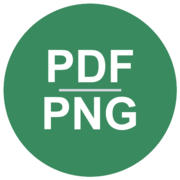
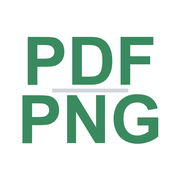
v2: 저장 라우팅(폴더 미지정=다운로드 폴백·강제 픽커 제거)+이미지→PDF 변환+돋보기 확대+§4.6 완료 인터랙션(체크팝·자동전환)+§4.9 shake+문구 정리+로고 v2(흰 원·초록 대형 글자) — 헤드리스 20/20 PASS

diff --git a/index.html b/index.html
@@ -79,12 +79,24 @@ svg.li{fill:none;stroke:currentColor;stroke-width:2;stroke-linecap:round;stroke-
 .btn.fill:disabled{background:var(--p-disabled);cursor:default;transform:none}
 .btn.weak{background:var(--green-bg);color:var(--green-dark)}
 
-/* ── 변환 완료 ── */
-.donebox{flex:1;display:flex;flex-direction:column;align-items:center;justify-content:center;gap:14px;padding:40px 0}
-.donebox .dc{width:74px;height:74px;border-radius:50%;background:var(--green100);color:var(--green600);display:flex;align-items:center;justify-content:center}
-.donebox .dc svg{width:36px;height:36px;stroke-width:2.6}
-.donebox .dt{font-size:22px;font-weight:800;letter-spacing:-.5px}
-.donebox .ds{font-size:var(--fs-body);color:var(--g500);font-weight:500;text-align:center;line-height:1.6}
+/* ── 완료 오버레이 (§4.6: 체크 팝인 → 제목 → 자동 전환·슬라이드) ── */
+.doneo{position:fixed;inset:0;background:#fff;z-index:860;display:none;flex-direction:column;align-items:center;justify-content:center;gap:16px;text-align:center;padding:24px}
+.doneo.on{display:flex}
+.doneo.out{transition:transform .3s cubic-bezier(.4,0,.2,1),opacity .3s;transform:translateX(-44px);opacity:0}
+.dcirc{width:86px;height:86px}
+.dcirc circle{fill:var(--green600);transform-origin:50% 50%;animation:dpop .38s cubic-bezier(.3,1.5,.5,1) backwards}
+.dcirc path{stroke:#fff;stroke-width:7;fill:none;stroke-linecap:round;stroke-linejoin:round;stroke-dasharray:60;stroke-dashoffset:60;animation:ddraw .34s ease-out .22s forwards}
+@keyframes dpop{0%{transform:scale(0)}100%{transform:scale(1)}}
+@keyframes ddraw{to{stroke-dashoffset:0}}
+.doneo .dt{font-size:22px;font-weight:800;letter-spacing:-.5px}
+.doneo .ds{font-size:var(--fs-body);color:var(--g500);font-weight:500}
+/* ── shake (§4.9 비활성 눌림) ── */
+@keyframes tfshake{10%,90%{transform:translateX(-1px)}20%,80%{transform:translateX(2px)}30%,50%,70%{transform:translateX(-4px)}40%,60%{transform:translateX(4px)}}
+.shake{animation:tfshake .4s}
+/* ── 확대(돋보기) ── */
+.zoomo{position:fixed;inset:0;background:rgba(25,31,40,.8);z-index:870;display:none;align-items:center;justify-content:center;cursor:zoom-out}
+.zoomo.on{display:flex}
+.zoomo canvas,.zoomo img{max-width:92vw;max-height:92vh;border-radius:8px;background:#fff;box-shadow:0 20px 60px rgba(0,0,0,.4)}
 
 /* ── 병합: 페이지 그리드 ── */
 .mtop{display:flex;align-items:center;justify-content:space-between;margin-bottom:14px;min-height:30px}
@@ -146,20 +158,14 @@ input[type=file]{display:none}
       <div id="cvMain">
         <div class="zone" id="cvZone">
           <div class="zi"><svg class="li" viewBox="0 0 24 24"><path d="M14 3v5h5M14 3H7a2 2 0 0 0-2 2v14a2 2 0 0 0 2 2h10a2 2 0 0 0 2-2V8zM12 11v6M9.5 14.5 12 17l2.5-2.5"/></svg></div>
-          <div class="zt">PDF를 끌어다 놓으세요</div>
-          <div class="zs">클릭해서 골라도 돼요 · 폴더를 놓으면 안의 PDF를 전부 변환해요</div>
+          <div class="zt">PDF나 이미지를 끌어다 놓으세요</div>
+          <div class="zs">클릭해서 골라도 돼요</div>
         </div>
         <div class="frows" id="cvRows"></div>
         <div class="foot"><button type="button" class="btn fill" id="cvGo" disabled>변환하기</button></div>
       </div>
-      <div id="cvDone" class="donebox" style="display:none">
-        <div class="dc"><svg class="li" viewBox="0 0 24 24"><path d="M4.5 12.5 10 18 19.5 7"/></svg></div>
-        <div class="dt" id="cvDoneT"></div>
-        <div class="ds" id="cvDoneS"></div>
-        <div class="foot" style="width:100%;max-width:340px"><button type="button" class="btn weak" id="cvAgain">확인</button></div>
-      </div>
     </div>
-    <input type="file" id="cvInput" accept=".pdf,application/pdf" multiple>
+    <input type="file" id="cvInput" accept=".pdf,.png,.jpg,.jpeg,application/pdf,image/png,image/jpeg" multiple>
   </section>
 
   <!-- 병합하기: PDF·이미지 → 한 PDF -->
@@ -169,7 +175,7 @@ input[type=file]{display:none}
         <div class="zone" id="mgZone" style="padding:76px 24px">
           <div class="zi"><svg class="li" viewBox="0 0 24 24"><path d="M8 3H5a2 2 0 0 0-2 2v3m0 8v3a2 2 0 0 0 2 2h3m8-18h3a2 2 0 0 1 2 2v3m0 8v3a2 2 0 0 1-2 2h-3M12 8v8M8 12h8"/></svg></div>
           <div class="zt">PDF나 이미지를 끌어다 놓으세요</div>
-          <div class="zs">놓은 순서대로 한 PDF가 돼요 · 페이지 사이에 놓으면 그 자리에 들어가요</div>
+          <div class="zs">놓은 순서대로 한 PDF가 돼요</div>
         </div>
       </div>
     </div>
@@ -189,6 +195,13 @@ input[type=file]{display:none}
 </div>
 
 <div class="busy" id="busy"><div class="spin"></div><div class="bt" id="busyT">PDF를 만들고 있어요</div></div>
+<div class="doneo" id="doneo">
+  <svg class="dcirc" viewBox="0 0 86 86"><circle cx="43" cy="43" r="43"/><path d="M24 45l14 13 24-28"/></svg>
+  <div class="dt" id="doneT"></div>
+  <div class="ds" id="doneS"></div>
+  <button type="button" class="btn weak" id="doneBtn" style="display:none;max-width:340px">확인</button>
+</div>
+<div class="zoomo" id="zoomo"></div>
 <div class="toast" id="toast"></div>
 
 <script src="./vendor/pdf-lib.min.js"></script>
@@ -251,9 +264,9 @@ let cvFiles = [];                      // {file, pages, status:'ready'|'work'|'o
 function renderDirChip(){
   const n = $('#dirName'), clear = $('#dirClear');
   if (dropDir){ n.innerHTML = `끌어온 폴더 <b></b>에 저장해요`; n.querySelector('b').textContent = `'${dropDir.name}'`; clear.style.display = ''; }
-  else if (savedDir){ n.innerHTML = `저장 폴더 <b></b>`; n.querySelector('b').textContent = savedDir.name; clear.style.display = 'none'; }
-  else { n.textContent = '폴더를 고르면 PNG가 바로 거기에 저장돼요'; clear.style.display = 'none'; }
-  if (!hasFS){ n.textContent = 'PNG는 다운로드 폴더로 저장돼요'; $('#dirPick').style.display = 'none'; }
+  else if (savedDir){ n.innerHTML = `저장 폴더 - <b></b>`; n.querySelector('b').textContent = savedDir.name; clear.style.display = 'none'; }
+  else { n.textContent = '폴더를 고르면 저장 위치를 정하지 않아도 계속 거기에 저장돼요'; clear.style.display = 'none'; }
+  if (!hasFS){ n.textContent = '변환한 파일은 다운로드 폴더로 받아요'; $('#dirPick').style.display = 'none'; }
 }
 $('#dirPick').addEventListener('click', async () => {
   if (!hasFS) return;
@@ -266,10 +279,11 @@ function renderCvRows(){
   const box = $('#cvRows'); box.innerHTML = '';
   cvFiles.forEach((f, i) => {
     const row = document.createElement('div'); row.className = 'frow';
-    const st = f.status === 'work' ? `<div class="s ok">변환 중 · ${f.done}/${f.pages}장</div>`
+    const readyTxt = f.kind === 'img' ? '이미지 → PDF' : (f.pages ? `${f.pages}장 → PNG` : '');
+    const st = f.status === 'work' ? `<div class="s ok">변환 중${f.kind === 'pdf' ? ` · ${f.done}/${f.pages}장` : ''}</div>`
       : f.status === 'ok' ? `<div class="s ok">저장했어요</div>`
       : f.status === 'bad' ? `<div class="s bad">${f.msg}</div>`
-      : `<div class="s">${f.pages ? f.pages + '장' : ''}</div>`;
+      : `<div class="s">${readyTxt}</div>`;
     row.innerHTML = `<div class="fi"><svg class="li" viewBox="0 0 24 24"><path d="M14 3v5h5M14 3H7a2 2 0 0 0-2 2v14a2 2 0 0 0 2 2h10a2 2 0 0 0 2-2V8z"/></svg></div>
       <div class="fn"><div class="n"></div>${st}</div><button type="button" class="rm" aria-label="빼기">×</button>`;
     row.querySelector('.n').textContent = f.file.name;
@@ -280,21 +294,35 @@ function renderCvRows(){
 }
 
 async function addCvFiles(files){
-  const pdfs = files.filter(f => /\.pdf$/i.test(f.name));
-  const skipped = files.length - pdfs.length;
-  if (skipped) toast(`PDF만 변환할 수 있어요 — ${skipped}개는 뺐어요 (이미지는 병합하기에서 써요)`);
-  for (const file of pdfs){
-    const entry = { file, pages: null, status: 'ready', done: 0, msg: '' };
+  const ok = files.filter(f => /\.(pdf|png|jpe?g)$/i.test(f.name));
+  const skipped = files.length - ok.length;
+  if (skipped) toast(`PDF·PNG·JPG만 넣을 수 있어요 — ${skipped}개는 뺐어요`);
+  for (const file of ok){
+    const isPdf = /\.pdf$/i.test(file.name);
+    const entry = { file, kind: isPdf ? 'pdf' : 'img', pages: isPdf ? null : 1, status: 'ready', done: 0, msg: '' };
     cvFiles.push(entry); renderCvRows();
-    try {
-      const doc = await pdfjsLib.getDocument({ data: await file.arrayBuffer() }).promise;
-      entry.pages = doc.numPages; doc.destroy();
-    } catch (err) {
-      entry.status = 'bad';
-      entry.msg = err && err.name === 'PasswordException' ? '암호가 걸린 PDF예요' : 'PDF를 열 수 없어요';
+    if (isPdf){
+      try {
+        const doc = await pdfjsLib.getDocument({ data: await file.arrayBuffer() }).promise;
+        entry.pages = doc.numPages; doc.destroy();
+      } catch (err) {
+        entry.status = 'bad';
+        entry.msg = err && err.name === 'PasswordException' ? '암호가 걸린 PDF예요' : 'PDF를 열 수 없어요';
+      }
     }
     renderCvRows();
   }
+}
+
+/* 이미지 1장 → A4 세로 맞춤 PDF */
+async function imageToPdf(file){
+  const bytes = await file.arrayBuffer();
+  const out = await PDFDocument.create();
+  const img = /\.png$/i.test(file.name) ? await out.embedPng(bytes) : await out.embedJpg(bytes);
+  const s = Math.min(A4[0] / img.width, A4[1] / img.height);
+  const page = out.addPage([A4[0], A4[1]]);
+  page.drawImage(img, { x: (A4[0] - img.width * s) / 2, y: (A4[1] - img.height * s) / 2, width: img.width * s, height: img.height * s });
+  return { name: baseName(file.name) + '.pdf', blob: new Blob([await out.save()], { type: 'application/pdf' }) };
 }
 
 const cvZone = $('#cvZone');
@@ -342,47 +370,63 @@ async function convertPdfToPngs(file, onProgress){
 }
 
 $('#cvGo').addEventListener('click', async () => {
-  let dir = dropDir || savedDir;
-  if (hasFS){
-    if (!dir){
-      try { dir = savedDir = await showDirectoryPicker({ mode: 'readwrite' }); await idb.set('outDir', dir); renderDirChip(); }
-      catch(e){ return; }
-    }
-    if (!(await ensureRW(dir))){ toast('폴더 권한을 허용하면 저장할 수 있어요'); return; }
-  }
+  if (!cvFiles.length) return;
+  // 폴더를 골라뒀으면 그 폴더에 즉시 저장(재선택 없음), 안 골랐으면 다운로드 폴더로
+  const dir = dropDir || savedDir;
+  if (dir && !(await ensureRW(dir))){ toast('폴더 권한을 허용하면 저장할 수 있어요'); return; }
   $('#cvGo').disabled = true;
-  let saved = 0, over = 0, failed = 0;
+  let png = 0, pdf = 0, over = 0, failed = 0;
+  const save = async it => {
+    if (dir){
+      let exists = false; try { await dir.getFileHandle(it.name); exists = true; } catch(e){}
+      const fh = await dir.getFileHandle(it.name, { create: true });
+      const w = await fh.createWritable(); await w.write(it.blob); await w.close();
+      if (exists) over++;
+    } else dl(it.name, it.blob);
+  };
   for (const f of cvFiles){
     if (f.status === 'bad'){ failed++; continue; }
     f.status = 'work'; f.done = 0; renderCvRows();
     try {
-      const items = await convertPdfToPngs(f.file, (i) => { f.done = i; renderCvRows(); });
-      for (const it of items){
-        if (dir){
-          let exists = false; try { await dir.getFileHandle(it.name); exists = true; } catch(e){}
-          const fh = await dir.getFileHandle(it.name, { create: true });
-          const w = await fh.createWritable(); await w.write(it.blob); await w.close();
-          if (exists) over++;
-        } else dl(it.name, it.blob);
-        saved++;
-      }
+      if (f.kind === 'pdf'){
+        const items = await convertPdfToPngs(f.file, (i) => { f.done = i; renderCvRows(); });
+        for (const it of items){ await save(it); png++; }
+      } else { await save(await imageToPdf(f.file)); pdf++; }
       f.status = 'ok';
-    } catch (err) { f.status = 'bad'; f.msg = 'PDF를 열 수 없어요'; failed++; }
+    } catch (err) { f.status = 'bad'; f.msg = '열 수 없어요'; failed++; }
     renderCvRows();
   }
-  $('#cvMain').style.display = 'none';
-  $('#cvDone').style.display = '';
-  $('#cvDoneT').textContent = saved ? `PNG ${saved}장을 저장했어요` : '변환하지 못했어요';
-  $('#cvDoneS').textContent = [
-    over ? `같은 이름 ${over}장은 덮어썼어요` : '',
-    failed ? `${failed}개 파일은 열 수 없었어요` : '',
-    !dir && hasFS === false ? '다운로드 폴더를 확인해 주세요' : ''
-  ].filter(Boolean).join(' · ');
+  const parts = [];
+  if (png) parts.push(`PNG ${png}장`);
+  if (pdf) parts.push(`PDF ${pdf}개`);
+  const subs = [];
+  if (over) subs.push(`같은 이름 ${over}장은 덮어썼어요`);
+  if (!dir && parts.length) subs.push('다운로드 폴더로 받았어요');
+  if (failed) subs.push(`${failed}개는 열 수 없었어요`);
+  showDone(parts.length ? `${parts.join('·')} 저장했어요` : '변환하지 못했어요', subs.join(' · '), failed > 0,
+    () => { cvFiles = []; renderCvRows(); });
 });
-$('#cvAgain').addEventListener('click', () => {
-  cvFiles = []; renderCvRows();
-  $('#cvDone').style.display = 'none'; $('#cvMain').style.display = '';
+
+/* §4.9 비활성 버튼 눌림 = shake (disabled는 클릭 투명 → 부모 위임) */
+document.querySelector('#scrConvert .foot').addEventListener('pointerdown', () => {
+  const b = $('#cvGo');
+  if (b.disabled){ b.classList.remove('shake'); void b.offsetWidth; b.classList.add('shake'); }
 });
+
+/* §4.6 완료 화면: 체크 팝인+제목(+한줄 서브) → 1.6초 뒤 왼쪽 슬라이드 자동 전환. 실패 안내가 있으면 버튼형 */
+let doneTimer = null;
+function showDone(title, sub, needBtn, after){
+  const o = $('#doneo');
+  $('#doneT').textContent = title;
+  $('#doneS').textContent = sub || ''; $('#doneS').style.display = sub ? '' : 'none';
+  const btn = $('#doneBtn'); btn.style.display = needBtn ? '' : 'none';
+  const svg = o.querySelector('.dcirc'); const fresh = svg.cloneNode(true); svg.replaceWith(fresh); // 애니 재시작
+  o.classList.remove('out'); o.classList.add('on');
+  const close = () => { o.classList.add('out'); setTimeout(() => { o.classList.remove('on', 'out'); if (after) after(); }, 300); };
+  clearTimeout(doneTimer);
+  if (needBtn) btn.onclick = close;
+  else doneTimer = setTimeout(close, 1600);
+}
 
 /* ═══════════ 병합하기 ═══════════ */
 let seq = 0;
@@ -463,6 +507,7 @@ function renderMerge(){
     card.innerHTML = `<div class="th"></div>
       <div class="lb"><span class="dot"></span><span class="t"></span></div>
       <div class="ops">
+        <button type="button" data-op="zoom" title="확대"><svg class="li" viewBox="0 0 24 24"><circle cx="11" cy="11" r="7"/><path d="M21 21l-4.6-4.6M11 8.2v5.6M8.2 11h5.6"/></svg></button>
         <button type="button" data-op="rot" title="회전"><svg class="li" viewBox="0 0 24 24"><path d="M20 8a8 8 0 1 0 2 6M20 3v5h-5"/></svg></button>
         <button type="button" data-op="del" title="빼기"><svg class="li" viewBox="0 0 24 24"><path d="M5 5l14 14M19 5 5 19"/></svg></button>
       </div>`;
@@ -470,6 +515,7 @@ function renderMerge(){
     card.querySelector('.t').textContent = it.kind === 'pdfPage' ? `${baseName(src.name)} · ${it.pageIndex + 1}` : baseName(src.name);
     card.querySelector('.t').title = src.name;
     if (it.thumb){ card.querySelector('.th').appendChild(it.thumb); }
+    card.querySelector('[data-op=zoom]').addEventListener('click', e => { e.stopPropagation(); openZoom(i); });
     card.querySelector('[data-op=rot]').addEventListener('click', e => { e.stopPropagation(); rotateItem(i); });
     card.querySelector('[data-op=del]').addEventListener('click', e => { e.stopPropagation(); removeItem(i); });
     grid.appendChild(card);
@@ -484,6 +530,40 @@ function renderMerge(){
   grid.appendChild(bar);
 }
 function rotateItem(i){ const it = mgItems[i]; it.rot = (it.rot + 90) % 360; applyRot(it); }
+
+/* 확대(돋보기) — 페이지를 크게 렌더해 전체 화면으로 */
+function rotCanvas(srcImg, sw, sh, rot){
+  if (!rot && srcImg instanceof HTMLCanvasElement) return srcImg;
+  const [w, h] = rot % 180 ? [sh, sw] : [sw, sh];
+  const c = document.createElement('canvas'); c.width = w; c.height = h;
+  const x = c.getContext('2d');
+  x.translate(w / 2, h / 2); x.rotate(rot * Math.PI / 180); x.drawImage(srcImg, -sw / 2, -sh / 2);
+  return c;
+}
+function openZoom(i){
+  const it = mgItems[i]; if (!it) return;
+  const o = $('#zoomo'); o.innerHTML = '';
+  (async () => {
+    const src = sources.get(it.srcId);
+    let el;
+    if (it.kind === 'image'){
+      const bmp = await createImageBitmap(new Blob([src.bytes]));
+      el = rotCanvas(bmp, bmp.width, bmp.height, it.rot);
+    } else {
+      const doc = await getPjs(src);
+      const page = await doc.getPage(it.pageIndex + 1);
+      const vp0 = page.getViewport({ scale: 1 });
+      const vp = page.getViewport({ scale: Math.min(1600 / vp0.width, 1600 / vp0.height, 3) });
+      const c = document.createElement('canvas'); c.width = vp.width | 0; c.height = vp.height | 0;
+      const x = c.getContext('2d'); x.fillStyle = '#fff'; x.fillRect(0, 0, c.width, c.height);
+      await page.render({ canvasContext: x, viewport: vp }).promise;
+      el = rotCanvas(c, c.width, c.height, it.rot);
+    }
+    o.appendChild(el); o.classList.add('on');
+  })();
+}
+$('#zoomo').addEventListener('click', () => $('#zoomo').classList.remove('on'));
+document.addEventListener('keydown', e => { if (e.key === 'Escape') $('#zoomo').classList.remove('on'); });
 function removeItem(i){ mgItems.splice(i, 1); renderMerge(); }
 function moveItem(from, gap){ const [it] = mgItems.splice(from, 1); mgItems.splice(gap > from ? gap - 1 : gap, 0, it); renderMerge(); }
 function clearMerge(){ mgItems = []; sources.forEach(s => s.url && URL.revokeObjectURL(s.url)); sources.clear(); renderMerge(); }
@@ -645,9 +725,9 @@ $('#mgSave').addEventListener('click', async () => {
     const blob = new Blob([bytes], { type: 'application/pdf' });
     if (fh){ const w = await fh.createWritable(); await w.write(blob); await w.close(); }
     else dl(name, blob);
-    toast('PDF를 저장했어요');
-  } catch(err){ toast('PDF를 만드는 데 실패했어요'); }
-  busy(false);
+    busy(false);
+    showDone('PDF를 저장했어요', '', false);
+  } catch(err){ busy(false); toast('PDF를 만드는 데 실패했어요'); }
 });
 
 /* 연결 프로그램(.pdf 더블클릭)으로 열린 파일 받기 */
@@ -662,7 +742,8 @@ if ('launchQueue' in window){
 renderDirChip();
 
 /* 헤드리스 검증 훅 — 데이터 없음, UI와 같은 함수를 그대로 노출 */
-window.__tf = { convertPdfToPngs, addCvFiles, addMergeFiles, buildMergedPdf, moveItem, rotateItem, removeItem, clearMerge, setTab, items: () => mgItems, DPI, pdfjs: pdfjsLib };
+window.__tf = { convertPdfToPngs, imageToPdf, addCvFiles, addMergeFiles, buildMergedPdf, moveItem, rotateItem, removeItem, clearMerge, setTab, zoom: openZoom, items: () => mgItems, DPI, pdfjs: pdfjsLib,
+  _setDir: h => { savedDir = h; renderDirChip(); } };
 </script>
 <script src="install.js"></script>
 </body>

diff --git a/sw.js b/sw.js
@@ -1,6 +1,6 @@
 // PDF 도구 서비스워커 — attend/sw.js 패턴 + vendor(대용량·불변)만 cache-first.
 // 배포마다 CACHE 버전 올릴 것(vendor 교체도 버전으로 갱신됨).
-var CACHE = 'tf-pdfpng-v1';
+var CACHE = 'tf-pdfpng-v2';
 var SHELL = [
   './', './index.html', './install.js', './manifest.json',
   './vendor/pdf.min.mjs', './vendor/pdf.worker.min.mjs', './vendor/pdf-lib.min.js',
